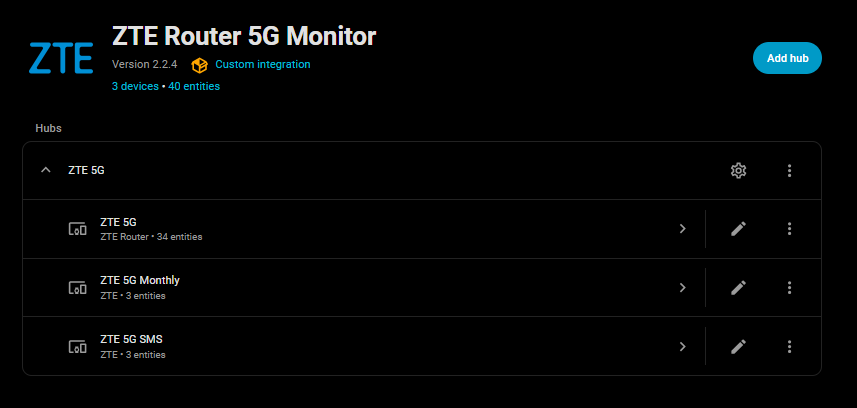
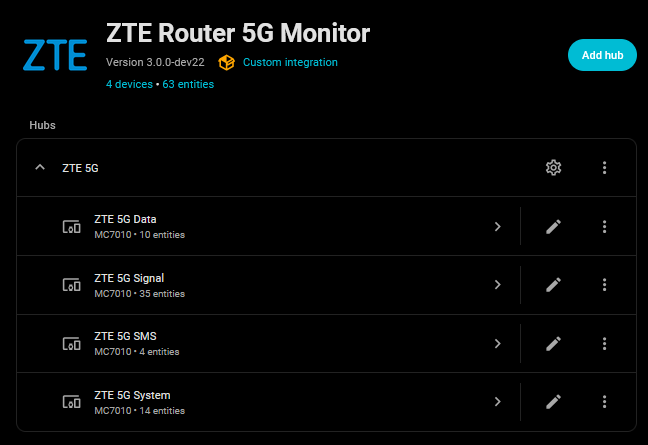
v3.0.0-rc1 Sensors & Docs

diff --git a/custom_components/zte_router_5g/sensor.py b/custom_components/zte_router_5g/sensor.py
@@ -141,7 +141,6 @@ SENSOR_TYPES: Final[tuple[ZTESensorEntityDescription, ...]] = (
         translation_key="device_uptime",
         icon="mdi:clock-outline",
         device_class=SensorDeviceClass.TIMESTAMP,
-        entity_category=EntityCategory.DIAGNOSTIC,
         group="system",
         value_fn=_get_uptime,
     ),
@@ -150,7 +149,6 @@ SENSOR_TYPES: Final[tuple[ZTESensorEntityDescription, ...]] = (
         translation_key="last_updated",
         icon="mdi:update",
         device_class=SensorDeviceClass.TIMESTAMP,
-        entity_category=EntityCategory.DIAGNOSTIC,
         group="system",
         value_fn=lambda data: None,  # Handled in property
     ),
@@ -178,6 +176,7 @@ SENSOR_TYPES: Final[tuple[ZTESensorEntityDescription, ...]] = (
         device_class=SensorDeviceClass.BATTERY,
         state_class=SensorStateClass.MEASUREMENT,
         native_unit_of_measurement=PERCENTAGE,
+        entity_registry_enabled_default=False,
         min_limit=0,
         max_limit=100,
         group="system",
@@ -206,6 +205,7 @@ SENSOR_TYPES: Final[tuple[ZTESensorEntityDescription, ...]] = (
         key="wan_connect_status",
         translation_key="wan_connect_status",
         icon="mdi:connection",
+        entity_category=EntityCategory.DIAGNOSTIC,
         group="signal",
         value_fn=lambda data: data.get("wan_connect_status"),
     ),

diff --git a/custom_components/zte_router_5g/binary_sensor.py b/custom_components/zte_router_5g/binary_sensor.py
@@ -7,7 +7,6 @@ from homeassistant.components.binary_sensor import (
     BinarySensorEntity,
     BinarySensorEntityDescription,
 )
-from homeassistant.const import EntityCategory
 from homeassistant.helpers.update_coordinator import CoordinatorEntity
 
 from .coordinator import ZTERouterDataUpdateCoordinator
@@ -28,7 +27,6 @@ BEST_CONN_DESCRIPTION = ZTEBinarySensorEntityDescription(
     key="best_connection",
     translation_key="best_connection",
     device_class=BinarySensorDeviceClass.CONNECTIVITY,
-    entity_category=EntityCategory.DIAGNOSTIC,
     group="signal",
 )
 

diff --git a/README.md b/README.md
@@ -1,8 +1,8 @@
 # ZTE Router 5G Monitor for Home Assistant
 
-[![HACS Integration](https://img.shields.io/badge/HACS-Integration-orange.svg)](https://hacs.xyz/) [![HACS Custom](https://img.shields.io/badge/HACS-Custom-41BDF5?logo=homeassistant&logoColor=white)](https://hacs.xyz/docs/faq/custom_repositories) [![Latest Release](https://img.shields.io/github/v/release/PlayFaster/ha-zte-router-5g-monitor?label=Release&logo=github)](https://github.com/PlayFaster/ha-zte-router-5g-monitor/releases) [![License: Apache 2.0](https://img.shields.io/badge/License-Apache_2.0-blue.svg)](https://opensource.org/licenses/Apache-2.0) [![Validate](https://github.com/PlayFaster/ha-zte-router-5g-monitor/actions/workflows/validate.yaml/badge.svg)](https://github.com/PlayFaster/ha-zte-router-5g-monitor/actions/workflows/validate.yaml) ![Coverage](https://img.shields.io/endpoint?url=https://raw.githubusercontent.com/PlayFaster/ha-zte-router-5g-monitor/python-coverage-comment-action-data/coverage-badge.json) ![Coverage](https://img.shields.io/endpoint?url=https://gist.githubusercontent.com/PlayFaster/0376d580e72d0abc493665a80396f701/raw/coverage.json) [![Last Commit](https://img.shields.io/github/last-commit/PlayFaster/ha-zte-router-5g-monitor?label=Last%20commit)](https://github.com/PlayFaster/ha-zte-router-5g-monitor/commits/main)
+[![HACS Integration](https://img.shields.io/badge/HACS-Integration-orange.svg)](https://hacs.xyz/) [![HACS Custom](https://img.shields.io/badge/HACS-Custom-41BDF5?logo=homeassistant&logoColor=white)](https://hacs.xyz/docs/faq/custom_repositories) [![Latest Release](https://img.shields.io/github/v/release/PlayFaster/ha-zte-router-5g-monitor?label=Release&logo=github)](https://github.com/PlayFaster/ha-zte-router-5g-monitor/releases) [![License: Apache 2.0](https://img.shields.io/badge/License-Apache_2.0-blue.svg)](https://opensource.org/licenses/Apache-2.0) [![Validate](https://github.com/PlayFaster/ha-zte-router-5g-monitor/actions/workflows/validate.yaml/badge.svg)](https://github.com/PlayFaster/ha-zte-router-5g-monitor/actions/workflows/validate.yaml) ![Coverage](https://img.shields.io/endpoint?url=https://gist.githubusercontent.com/PlayFaster/0376d580e72d0abc493665a80396f701/raw/coverage.json) [![Last Commit](https://img.shields.io/github/last-commit/PlayFaster/ha-zte-router-5g-monitor?label=Last%20commit)](https://github.com/PlayFaster/ha-zte-router-5g-monitor/commits/main)
 
-Home Assistant integration for **ZTE 5G/LTE Routers** providing detailed signal statistics, data usage tracking, and SMS management.
+A Home Assistant integration for **ZTE 5G CPE Routers** providing Signal Stats, Data Usage & SMS Management.
 
 > [!NOTE]
 >
@@ -40,15 +40,15 @@ Home Assistant integration for **ZTE 5G/LTE Routers** providing detailed signal 
 
 - **Detailed Signal Metrics**: RSRP, RSRQ, RSSI, and SNR for both the 5G NR and the LTE anchor cell.
 - **Cell Tower Info**: Monitor Cell ID, eNodeB ID, PCI, and active frequency bands/channels.
-- **Carrier Aggregation**: Track CA status and primary/secondary band bandwidths.
+- **Connection Type**: Track Carrier Aggregation and ENDC status plus LTE and 5G bands in use.
 
 ### 📊 Comprehensive Monitoring
 
 - **Sub-Device Organisation**: Entities are automatically grouped into four logical devices: **System**, **Signal**, **Data**, and **SMS**.
-  - **System**: Core router info (Firmware, IMEI, Hardware Version), WAN/LAN IPs, uptime, and battery status.
+  - **System**: Core router info (Firmware, IMEI, Hardware Version), WAN/LAN IPs and uptime.
   - **Signal**: Extensive 5G NR and LTE signal data including RSRP, RSRQ, SNR, cell ID, and band info.
-  - **Data**: Real-time upload/download speeds, monthly totals (Bytes and GB), and session-based counters.
-  - **SMS**: Unread message count, total counts per storage bank, and the content of the most recent message.
+  - **Data**: Real-time upload/download speeds, monthly totals, and session-based counters.
+  - **SMS**: Unread and total message count, the content of the most recent message amd a Delete All button.
 
 ### 📋 Essential Router Management
 
@@ -103,7 +103,7 @@ This automation fires when a new SMS is detected and forwards the content to you
 alias: "ZTE: Forward SMS to Mobile"
 triggers:
   - trigger: state
-    entity_id: sensor.zte_router_5g_recent_msg
+    entity_id: sensor.zte_5g_sms_recent_msg
 actions:
   - action: notify.mobile_app_your_phone
     data:
@@ -113,13 +113,13 @@ actions:
 
 ### Data Usage Alert
 
-Monitor your data consumption and get notified when you approach your monthly limit.
+Monitor your data consumption and get notified when you approach your monthly limit. If you change the display unit of data sensors (e.g. from Bytes to GB), you have to change the numbers below as well.
 
 ```yaml
 alias: "ZTE: High Data Usage Alert"
 triggers:
   - trigger: numeric_state
-    entity_id: sensor.zte_router_5g_monthly_total_bytes_raw
+    entity_id: sensor.zte_5g_data_monthly_total
     above: 500000000000 # 500 GB (in bytes)
 actions:
   - action: notify.mobile_app_your_phone
@@ -133,17 +133,60 @@ actions:
 Monitor for poor connection quality based on 5G status and signal metrics.
 
 ```yaml
-alias: "ZTE: Poor Signal Quality Alert"
+alias: "Signal: Poor Quality Connection Alert"
 triggers:
-  - trigger: numeric_state
-    entity_id: sensor.zte_router_5g_5g_snr
-    below: 5
+  - platform: state
+    entity_id:
+      - binary_sensor.zte_5g_signal_best_connection
+    to: "off"
     for: "00:05:00"
+  - platform: state
+    entity_id:
+      - sensor.zte_5g_signal_network_type
+    not_to: "ENDC"
+    for: "00:05:00"
+  - platform: state
+    entity_id:
+      - sensor.zte_5g_signal_carrier_aggregation
+    not_to: "ca_activated"
+    for: "00:05:00"
+  - platform: numeric_state
+    entity_id:
+      - sensor.zte_5g_signal_signal_bars
+    below: 4
+    for: "00:05:00"
+conditions:
+  - condition: or
+    conditions:
+      - condition: numeric_state
+        entity_id: sensor.zte_5g_signal_signal_bars
+        below: 4
+      - condition: state
+        entity_id: binary_sensor.zte_5g_signal_best_connection
+        state:
+          - "off"
+      - condition: not
+        conditions:
+          - condition: state
+            entity_id: sensor.zte_5g_signal_carrier_aggregation
+            state:
+              - ca_activated
+      - condition: not
+        conditions:
+          - condition: state
+            entity_id: sensor.zte_5g_signal_network_type
+            state:
+              - ENDC
 actions:
   - action: notify.mobile_app_your_phone
     data:
-      title: "Poor ZTE Signal"
-      message: "5G SNR has been below 5dB for over 5 minutes."
+      title: "Poor Signal Quality Detected"
+      message: |
+        The router connection quality is poor.
+        - 5G ENDC: {{ states('sensor.zte_5g_signal_network_type') }}
+        - Best Connection: {{ states('binary_sensor.zte_5g_signal_best_connection') }}
+        - Signal Bars: {{ states('sensor.zte_5g_signal_signal_bars') }}
+        - CA: {{ states('sensor.zte_5g_signal_carrier_aggregation') }}
 ```
 
 ---
@@ -154,17 +197,17 @@ actions:
 
 ![Integration](.github/images/zte_5g_integration_screen.png)
 
-### Signal & Controls
+| Signal | System |
+| :-: | :-: |
+| ![Signal](.github/images/zte_5g_signal_screen_mini1.png) | ![System](.github/images/zte_5g_sensor_control_info_mini.png) |
 
-![Sensors](.github/images/zte_5g_sensor_control_info.png)
+| Data | SMS |
+| :-: | :-: |
+| ![Data](.github/images/zte_5g_data_screen_mini.png) | ![SMS](.github/images/zte_5g_sms_info.png) |
 
-### Data Usage
+### Setup
 
-![Data](.github/images/zte_5g_data_info.png)
-
-### SMS Management
-
-![SMS](.github/images/zte_5g_sms_info.png)
+![Setup](.github/images/zte_5g_setup_info.png)
 
 ---
 

diff --git a/docs/all_sensors.md b/docs/all_sensors.md
@@ -24,11 +24,11 @@ _Group: `system`_
 | Firmware Version | `wa_inner_version` | Sensor | `wa_inner_version` | - | Diagnostic |  |
 | WAN IP Address | `wan_ipaddr` | Sensor | `wan_ipaddr` | - | Diagnostic |  |
 | LAN IP Address | `lan_ipaddr` | Sensor | `lan_ipaddr` | - | Diagnostic |  |
-| Uptime | `device_uptime` | Sensor | `realtime_time` | Timestamp | Diagnostic | Calculated as `now() - uptime_seconds`. |
-| Last Updated | `last_updated` | Sensor | `coordinator.last_update_success_time` | Timestamp | Diagnostic | Internal tracking of last successful poll. |
+| Uptime | `device_uptime` | Sensor | `realtime_time` | Timestamp | Sensor | Calculated as `now() - uptime_seconds`. |
+| Last Updated | `last_updated` | Sensor | `coordinator.last_update_success_time` | Timestamp | Sensor | Internal tracking of last successful poll. |
 | IMEI | `imei` | Sensor | `imei` | - | Diagnostic | **Disabled by default (sensitive).** Hardware-bound modem identifier. |
 | Hardware Version | `hardware_version` | Sensor | `hardware_version` | - | Diagnostic | e.g. `MC7010-1`. |
-| Battery | `battery_value` | Sensor | `battery_value` | % | Sensor | Full when plugged in. |
+| Battery | `battery_value` | Sensor | `battery_value` | % | Sensor | **Disabled by default.** Full when plugged in. |
 | SIM IMSI | `sim_imsi` | Sensor | `sim_imsi` | - | Diagnostic | **Disabled by default (sensitive).** SIM network identity. |
 | SIM ICCID | `sim_iccid` | Sensor | `sim_iccid` | - | Diagnostic | **Disabled by default (sensitive).** SIM card serial number. |
 | Reboot | `reboot` | Button | API Call: `REBOOT_DEVICE` | - | Control |  |
@@ -43,7 +43,7 @@ _Group: `signal`_
 
 | Name | Key | Type | Source (Raw Key) | Unit | Category | Notes |
 | :-- | :-- | :-- | :-- | :-- | :-- | :-- |
-| Connection Status | `wan_connect_status` | Sensor | `wan_connect_status` | - | Sensor |  |
+| Connection Status | `wan_connect_status` | Sensor | `wan_connect_status` | - | Diagnostic |  |
 | Network APN | `wan_apn` | Sensor | `wan_apn` | - | Diagnostic |  |
 | Network Type | `network_type` | Sensor | `network_type` | - | Sensor | e.g., LTE, ENDC, NR5G. |
 | Signal Bars | `signalbar` | Sensor | `signalbar` | - | Sensor | 0-5 scale. |
@@ -76,8 +76,8 @@ _Group: `signal`_
 | Legacy RSCP | `rscp` | Sensor | `rscp` | dBm | Sensor | **Disabled by default.** Data may not be available in all configurations. |
 | eNodeB ID | `enodeb_id` | Sensor | `enodeb_id` | - | Diagnostic | Serving cell tower identifier (hex string). |
 | Network Mode | `net_select` | Sensor | `net_select` | - | Diagnostic | Configured mode, e.g. `LTE_AND_5G`, `LTE_ONLY`. |
-| PPP Status | `ppp_status` | Sensor | `ppp_status` | - | Diagnostic | PPP layer state, e.g. `ppp_connected`. |
-| Best Connection | `best_connection` | Binary | Logic: `ENDC` + `ca_activated` | - | Diagnostic | ON if 5G and LTE-CA are both active. |
+| Bridge Mode | `ppp_status` | Sensor | `ppp_status` | - | Diagnostic | PPP layer state, e.g. `ppp_connected`. |
+| Best Connection | `best_connection` | Binary | Logic: `ENDC` + `ca_activated` | - | Sensor | ON if 5G and LTE-CA are both active. |
 
 ---
 
@@ -147,4 +147,5 @@ The `Recent Msg` sensor contains:
 
 ## Version Control
 
-- **v1.0.0** (2026-05-07) - Initial versioned snapshot. Entity count updated 51 → 63. Added 12 new sensors (System: IMEI, Hardware Version, Battery, SIM IMSI, SIM ICCID; Signal: eNodeB ID, Network Mode, PPP Status; Data: Upload Speed, Download Speed, Session Sent, Session Received). Identity strategy updated from MAC to IMEI.
+- **v1.0.0** (2026-05-07) - Initial versioned snapshot. Entity count updated 51 → 63. Added 12 new sensors (System: IMEI, Hardware Version, Battery, SIM IMSI, SIM ICCID; Signal: eNodeB ID, Network Mode, PPP Status; Data: Upload Speed, Download Speed, Session Sent, Session Received). Identity strategy updated from MAC to IMEI. \
+- **v3.0.0-dev23** (2026-05-08) - Updated categories for Uptime, Last Updated, Best Connection, and WAN Connect Status. Renamed PPP Status to Bridge Mode. Set Battery to disabled by default.\

diff --git a/docs/changelog_local.md b/docs/changelog_local.md
@@ -2,6 +2,17 @@
 
 All notable changes to this project will be documented in this file.
 
+## [3.0.0-rc1] - 2026-05-08
+
+### Changed
+
+- **Entity categories and visibility**: Refined sensor categorization and default settings. Moved **Device Uptime**, **Last Updated**, and **Best Connection** to regular Sensor category; moved **WAN Connect Status** to Diagnostic. Set **Battery** to be disabled by default.
+- **User-Friendly Labels**: Renamed **PPP Status** sensor to **Bridge Mode** for better clarity in the UI.
+
+### Fixed
+
+- **Readme**: Updates to Readme including corrections to automation examples.
+
 ## [3.0.0-dev22] - 2026-05-08
 
 ### Fixed
